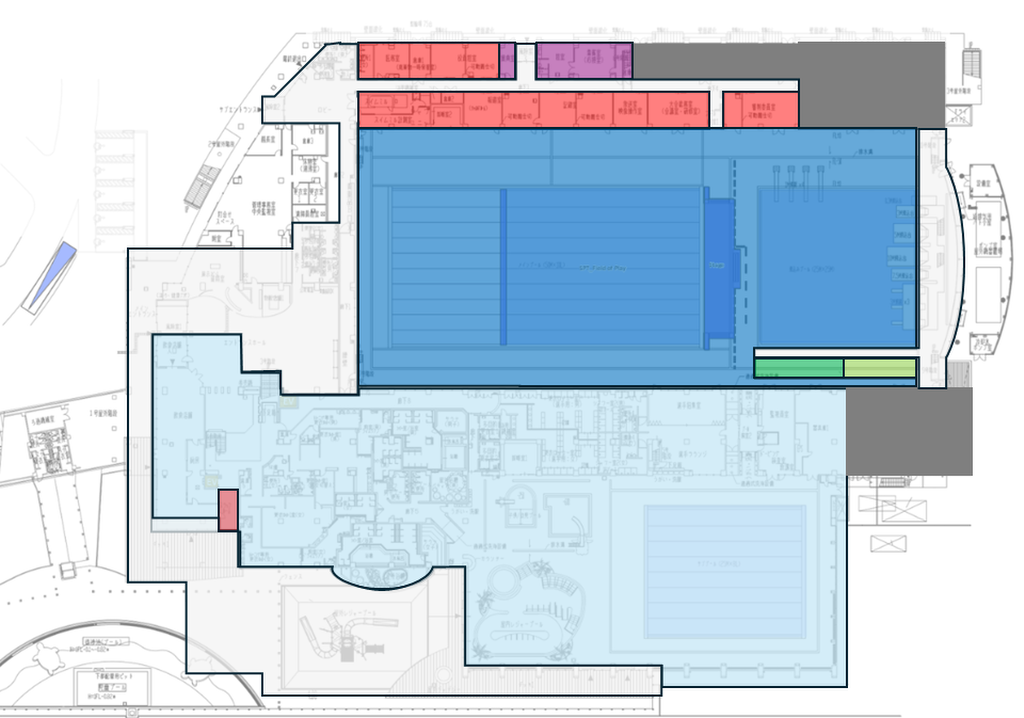
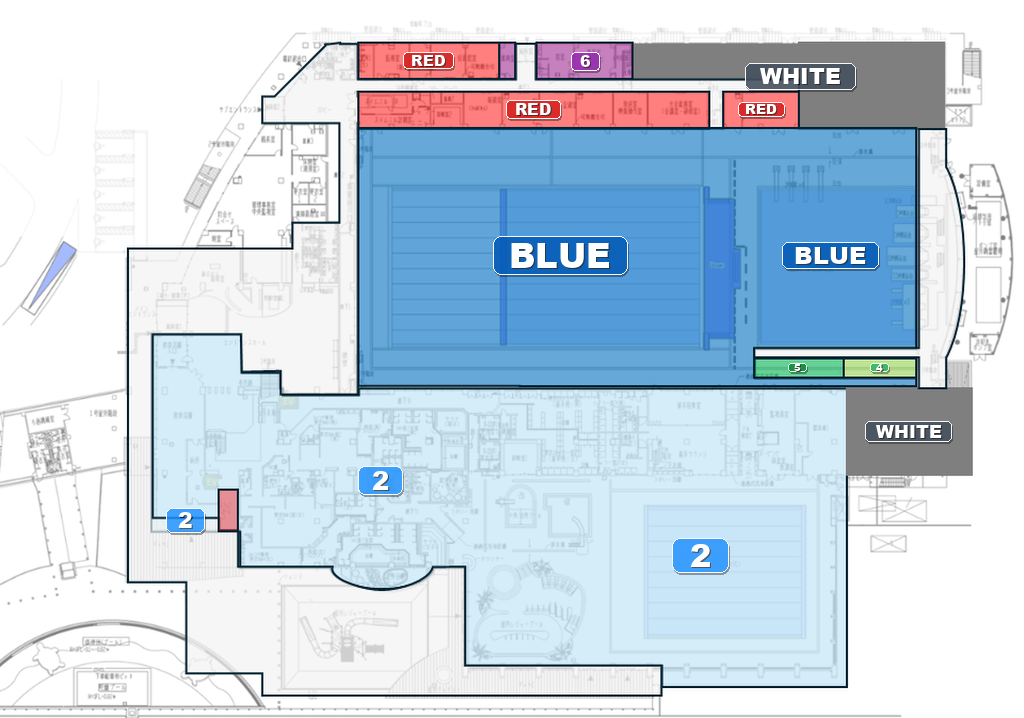
Add files via upload

diff --git a/js/data.js b/js/data.js
@@ -3293,11 +3293,11 @@ if (typeof window !== "undefined") {
 }
 
 // データ永続化 (LocalStorage) & 自動保存ヘルパーコード定義
-const DATA_STORAGE_HELPER_CODE = "// データ永続化 (LocalStorage) & 自動保存ヘルパー (V23)\nconst DataStorage = {\n  STORAGE_KEY: 'OFFLINE_VENUE_MAP_DATA_V23',\n\n  init() {\n    let saved = null;\n    try {\n      saved = localStorage.getItem(this.STORAGE_KEY);\n    } catch (e) {}\n\n    if (saved) {\n      try {\n        const parsed = JSON.parse(saved);\n        if (Array.isArray(parsed.rooms)) {\n          parsed.rooms.forEach(savedRoom => {\n            const existingIdx = VENUE_DATA.rooms.findIndex(r => r.id === savedRoom.id);\n            if (existingIdx !== -1) {\n              VENUE_DATA.rooms[existingIdx] = savedRoom;\n            } else {\n              VENUE_DATA.rooms.push(savedRoom);\n            }\n          });\n        }\n        if (Array.isArray(parsed.acps)) {\n          parsed.acps.forEach(savedAcp => {\n            const existingIdx = VENUE_DATA.acps.findIndex(a => a.id === savedAcp.id);\n            if (existingIdx !== -1) {\n              VENUE_DATA.acps[existingIdx] = savedAcp;\n            } else {\n              VENUE_DATA.acps.push(savedAcp);\n            }\n          });\n        }\n        this.save();\n      } catch (e) {\n        console.warn('LocalStorage parse error:', e);\n      }\n    }\n  },\n\n  save() {\n    try {\n      localStorage.setItem(this.STORAGE_KEY, JSON.stringify({\n        rooms: VENUE_DATA.rooms,\n        acps: VENUE_DATA.acps\n      }));\n    } catch (e) {\n      console.error('LocalStorage save error:', e);\n    }\n  },\n\n  reset() {\n    try {\n      for (let i = 1; i <= 30; i++) {\n        localStorage.removeItem('OFFLINE_VENUE_MAP_DATA_V' + i);\n      }\n      localStorage.removeItem('OFFLINE_VENUE_MAP_DATA');\n      localStorage.removeItem('OFFLINE_VENUE_MAP_LAST_FLOOR');\n    } catch(e) {}\n    location.reload();\n  },\n\n  generateDataJs() {\n    return '/**\\n' +\n      ' * オフライン会場マップ - データ管理モジュール (VENUE_DATA)\\n' +\n      ' * 最新編集データ (全諸室・ACP統合保存版)\\n' +\n      ' */\\n\\n' +\n      'const VENUE_DATA = ' + JSON.stringify(VENUE_DATA, null, 2) + ';\\n\\n' +\n      'if (typeof window !== \"undefined\") { window.VENUE_DATA = VENUE_DATA; }\\n\\n' +\n      DATA_STORAGE_HELPER_CODE;\n  },\n\n  exportDataJs() {\n    const jsText = this.generateDataJs();\n    const blob = new Blob([jsText], { type: 'application/javascript;charset=utf-8' });\n    const url = URL.createObjectURL(blob);\n    const a = document.createElement('a');\n    a.href = url;\n    a.download = 'data.js';\n    document.body.appendChild(a);\n    a.click();\n    setTimeout(() => {\n      document.body.removeChild(a);\n      URL.revokeObjectURL(url);\n    }, 200);\n  }\n};\n\nif (typeof window !== 'undefined') {\n  window.VENUE_DATA = VENUE_DATA;\n  window.DataStorage = DataStorage;\n}\n\nif (typeof window !== 'undefined' && typeof localStorage !== 'undefined') {\n  DataStorage.init();\n}";
+const DATA_STORAGE_HELPER_CODE = "// データ永続化 (LocalStorage) & 自動保存ヘルパー (V23)\nconst DataStorage = {\n  STORAGE_KEY: 'OFFLINE_VENUE_MAP_DATA_V24',\n\n  init() {\n    let saved = null;\n    try {\n      saved = localStorage.getItem(this.STORAGE_KEY);\n    } catch (e) {}\n\n    if (saved) {\n      try {\n        const parsed = JSON.parse(saved);\n        if (Array.isArray(parsed.rooms)) {\n          parsed.rooms.forEach(savedRoom => {\n            const existingIdx = VENUE_DATA.rooms.findIndex(r => r.id === savedRoom.id);\n            if (existingIdx !== -1) {\n              VENUE_DATA.rooms[existingIdx] = savedRoom;\n            } else {\n              VENUE_DATA.rooms.push(savedRoom);\n            }\n          });\n        }\n        if (Array.isArray(parsed.acps)) {\n          parsed.acps.forEach(savedAcp => {\n            const existingIdx = VENUE_DATA.acps.findIndex(a => a.id === savedAcp.id);\n            if (existingIdx !== -1) {\n              VENUE_DATA.acps[existingIdx] = savedAcp;\n            } else {\n              VENUE_DATA.acps.push(savedAcp);\n            }\n          });\n        }\n        this.save();\n      } catch (e) {\n        console.warn('LocalStorage parse error:', e);\n      }\n    }\n  },\n\n  save() {\n    try {\n      localStorage.setItem(this.STORAGE_KEY, JSON.stringify({\n        rooms: VENUE_DATA.rooms,\n        acps: VENUE_DATA.acps\n      }));\n    } catch (e) {\n      console.error('LocalStorage save error:', e);\n    }\n  },\n\n  reset() {\n    try {\n      for (let i = 1; i <= 30; i++) {\n        localStorage.removeItem('OFFLINE_VENUE_MAP_DATA_V' + i);\n      }\n      localStorage.removeItem('OFFLINE_VENUE_MAP_DATA');\n      localStorage.removeItem('OFFLINE_VENUE_MAP_LAST_FLOOR');\n    } catch(e) {}\n    location.reload();\n  },\n\n  generateDataJs() {\n    return '/**\\n' +\n      ' * オフライン会場マップ - データ管理モジュール (VENUE_DATA)\\n' +\n      ' * 最新編集データ (全諸室・ACP統合保存版)\\n' +\n      ' */\\n\\n' +\n      'const VENUE_DATA = ' + JSON.stringify(VENUE_DATA, null, 2) + ';\\n\\n' +\n      'if (typeof window !== \"undefined\") { window.VENUE_DATA = VENUE_DATA; }\\n\\n' +\n      DATA_STORAGE_HELPER_CODE;\n  },\n\n  exportDataJs() {\n    const jsText = this.generateDataJs();\n    const blob = new Blob([jsText], { type: 'application/javascript;charset=utf-8' });\n    const url = URL.createObjectURL(blob);\n    const a = document.createElement('a');\n    a.href = url;\n    a.download = 'data.js';\n    document.body.appendChild(a);\n    a.click();\n    setTimeout(() => {\n      document.body.removeChild(a);\n      URL.revokeObjectURL(url);\n    }, 200);\n  }\n};\n\nif (typeof window !== 'undefined') {\n  window.VENUE_DATA = VENUE_DATA;\n  window.DataStorage = DataStorage;\n}\n\nif (typeof window !== 'undefined' && typeof localStorage !== 'undefined') {\n  DataStorage.init();\n}";
 
 // データ永続化 (LocalStorage) & 自動保存ヘルパー (V23)
 const DataStorage = {
-  STORAGE_KEY: 'OFFLINE_VENUE_MAP_DATA_V23',
+  STORAGE_KEY: 'OFFLINE_VENUE_MAP_DATA_V24',
 
   init() {
     let saved = null;

diff --git a/index.html b/index.html
@@ -640,7 +640,7 @@
       <!-- 1階マップ (通常図面 ＋ ゾーン色分け図面オーバーレイ) -->
       <div id="map-1f" class="floor-map">
         <img src="assets/floor1.png" alt="1F Floor Map" class="bg-svg bg-normal">
-        <img src="assets/floor1-zone.png" alt="1F Zone Map" class="bg-svg bg-zone">
+        <img src="assets/floor1-zone.png?v=24.0" alt="1F Zone Map" class="bg-svg bg-zone">
       </div>
 
       <!-- 2階マップ -->
@@ -848,8 +848,8 @@
   </div>
 
   <!-- スクリプト読み込み (重要: data.js -> map-engine.js -> app.js) -->
-  <script src="js/data.js?v=23.0"></script>
-  <script src="js/map-engine.js?v=23.0"></script>
-  <script src="js/app.js?v=23.0"></script>
+  <script src="js/data.js?v=24.0"></script>
+  <script src="js/map-engine.js?v=24.0"></script>
+  <script src="js/app.js?v=24.0"></script>
 </body>
 </html>
